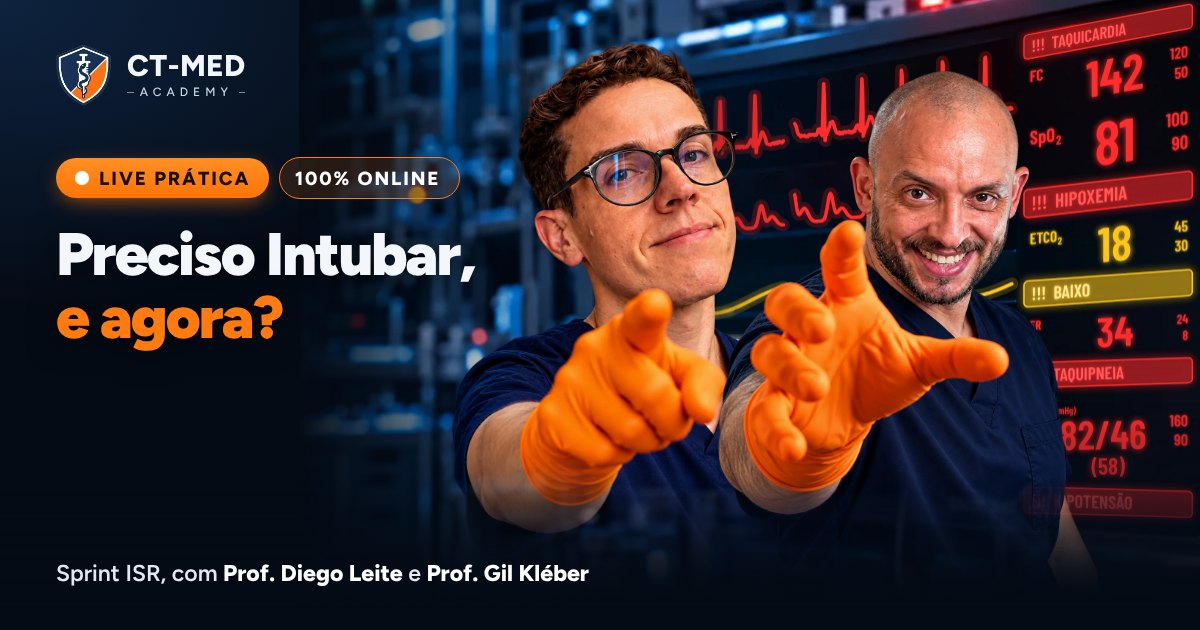
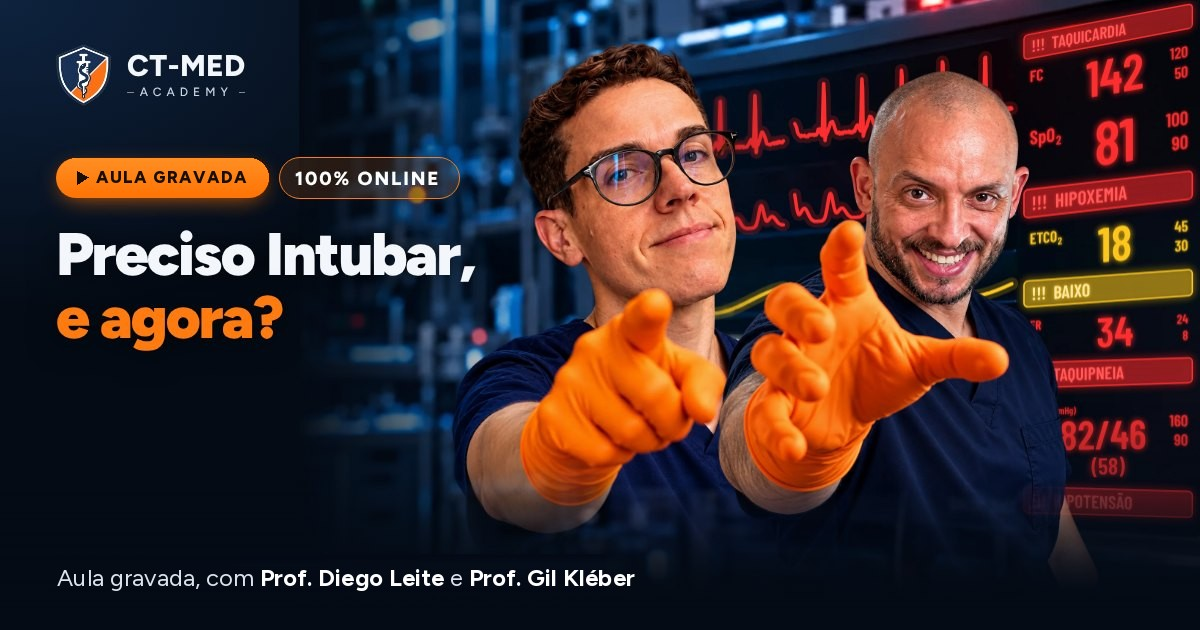
feat(isr): fechamento, botão fixo e selo no modo aula gravada + capa de compartilhamento nova
- Fechamento: "Quero acessar a aula", "R$ 67 · Acesso imediato por 6 meses",
  "Online · 2h de aula · 3 casos reais · Certificado de 3h · Bônus: GasoLab"
- Botão fixo do celular: "Quero acessar a aula"
- Simulador e FAQ 4: "live" -> "aula"
- Selo "Aula gravada" com ícone de play no lugar da bolinha de ao vivo
- capa-compartilhamento.jpg: selo "AULA GRAVADA" e linha "Aula gravada, com..." (fotos intactas), og:image v=4

Claude-Session: https://claude.ai/code/session_01QuQhRaLEcGmLLToY9kRMXV

Changed region(s): [[0.0308, 0.8746, 0.5242, 0.9349], [0.0617, 0.2714, 0.2158, 0.3016]]

diff --git a/sprint-isr/index.html b/sprint-isr/index.html
@@ -13,7 +13,7 @@
 <meta property="og:description" content="2h de aula com 3 casos reais de sequência rápida de intubação, checklist, apps e certificado de 3h. Acesso imediato por 6 meses.">
 <link rel="canonical" href="https://isr.ctmedacademy.com.br/">
 <meta property="og:url" content="https://isr.ctmedacademy.com.br/">
-<meta property="og:image" content="https://isr.ctmedacademy.com.br/assets/sprint-isr/capa-compartilhamento.jpg?v=3">
+<meta property="og:image" content="https://isr.ctmedacademy.com.br/assets/sprint-isr/capa-compartilhamento.jpg?v=4">
 <meta property="og:image:type" content="image/jpeg">
 <meta property="og:image:width" content="1200">
 <meta property="og:image:height" content="630">
@@ -108,7 +108,7 @@ src="https://www.facebook.com/tr?id=1464212938907903&ev=PageView&noscript=1"
         <span class="brand__name">CT-MED<small>Academy</small></span>
       </a>
 
-      <p class="live-tag"><span class="chip chip--live"><span class="live-tag__dot" aria-hidden="true"></span>Aula gravada</span><span class="chip chip--online"><svg class="ic" aria-hidden="true"><use href="#i-screen"/></svg>100% online</span></p>
+      <p class="live-tag"><span class="chip chip--live"><svg class="ic" aria-hidden="true"><use href="#i-tri"/></svg>Aula gravada</span><span class="chip chip--online"><svg class="ic" aria-hidden="true"><use href="#i-screen"/></svg>100% online</span></p>
       <h1>Preciso Intubar,<br> <span>e agora?</span></h1>
       <p class="hero__lead">Como pensar, preparar e conduzir uma sequência rápida de intubação quando a decisão é sua.</p>
 
@@ -196,7 +196,7 @@ src="https://www.facebook.com/tr?id=1464212938907903&ev=PageView&noscript=1"
               <p class="caso__virada">Percebeu o problema?</p>
               <p>Você não precisa apenas saber intubar. Precisa reconhecer ameaças simultâneas, definir prioridades, distribuir tarefas e antecipar o que pode dar errado.</p>
               <div class="caso__live">
-                <p><b>É esse raciocínio que vamos desenvolver na live.</b></p>
+                <p><b>É esse raciocínio que vamos desenvolver na aula.</b></p>
                 <p>Casos reais, decisões comentadas e os pontos críticos que fazem diferença na emergência.</p>
               </div>
               <button type="button" class="caso__de-novo" id="caso-de-novo">Tentar novamente</button>
@@ -332,7 +332,7 @@ src="https://www.facebook.com/tr?id=1464212938907903&ev=PageView&noscript=1"
         </div>
         <div class="faq__item">
           <h3><button type="button" aria-expanded="false" aria-controls="faq-4">Preciso ser médico para participar?<span class="faq__plus" aria-hidden="true"></span></button></h3>
-          <div class="faq__a" id="faq-4"><div><p>Não. A live foi pensada para internos, estudantes, recém-formados e plantonistas da UPA e do PS.</p></div></div>
+          <div class="faq__a" id="faq-4"><div><p>Não. A aula foi pensada para internos, estudantes, recém-formados e plantonistas da UPA e do PS.</p></div></div>
         </div>
         <div class="faq__item">
           <h3><button type="button" aria-expanded="false" aria-controls="faq-5">A aula substitui um treinamento prático de intubação?<span class="faq__plus" aria-hidden="true"></span></button></h3>
@@ -361,9 +361,9 @@ src="https://www.facebook.com/tr?id=1464212938907903&ev=PageView&noscript=1"
     <p class="eyebrow eyebrow--centro">Agora é com você</p>
     <h2 id="t-fecho">Não espere estar sozinho na UPA para pensar nisso pela primeira vez.</h2>
     <p class="fecho__txt">A intubação começa muito antes de pegar no laringoscópio. Começa nas decisões que você toma diante do paciente.</p>
-    <a class="cta js-checkout" id="cta-final" href="https://pay.cakto.com.br/hm343nx">Quero participar da live <svg class="ic" aria-hidden="true"><use href="#i-arrow"/></svg></a>
-    <p class="fecho__oferta">R$ 67 · 11 de novembro · 20h</p>
-    <p class="fecho__nota">Online ao vivo · 2h de conteúdo + 1h de discussão · Replay por 14 dias · Bônus: GasoLab</p>
+    <a class="cta js-checkout" id="cta-final" href="https://pay.cakto.com.br/hm343nx">Quero acessar a aula <svg class="ic" aria-hidden="true"><use href="#i-arrow"/></svg></a>
+    <p class="fecho__oferta">R$ 67 · Acesso imediato por 6 meses</p>
+    <p class="fecho__nota">Online · 2h de aula · 3 casos reais · Certificado de 3h · Bônus: GasoLab</p>
   </div>
 </section>
 
@@ -380,7 +380,7 @@ src="https://www.facebook.com/tr?id=1464212938907903&ev=PageView&noscript=1"
 </div><!-- /.page -->
 
 <div class="dock" id="dock" hidden>
-  <a class="cta js-checkout" href="https://pay.cakto.com.br/hm343nx">Garantir minha vaga <svg class="ic" aria-hidden="true"><use href="#i-chevron"/></svg></a>
+  <a class="cta js-checkout" href="https://pay.cakto.com.br/hm343nx">Quero acessar a aula <svg class="ic" aria-hidden="true"><use href="#i-chevron"/></svg></a>
 </div>
 
 <dialog class="cine" id="cine" aria-label="Depoimento em vídeo">

diff --git a/sprint-isr/assets/sprint-isr/sprint-isr.css b/sprint-isr/assets/sprint-isr/sprint-isr.css
@@ -75,6 +75,7 @@ button{font:inherit;color:inherit}
 .chip--live{background:linear-gradient(180deg,#ff8f24,#ff7405);color:#170f06;box-shadow:0 6px 22px -6px rgba(255,116,5,.75)}
 .chip--online{padding-left:.8em;border:1.5px solid var(--orange);background:rgba(255,122,15,.14);color:#fff}
 .chip .ic{width:1.3em;height:1.3em;stroke-width:2;color:var(--orange-hi)}
+.chip--live .ic{width:1em;height:1em;color:currentColor}
 .live-tag__dot{width:.72em;height:.72em;border-radius:50%;background:#fff;animation:live 1.6s ease-out infinite}
 @keyframes live{0%{box-shadow:0 0 0 0 rgba(255,255,255,.8)}100%{box-shadow:0 0 0 .7em rgba(255,255,255,0)}}
 
